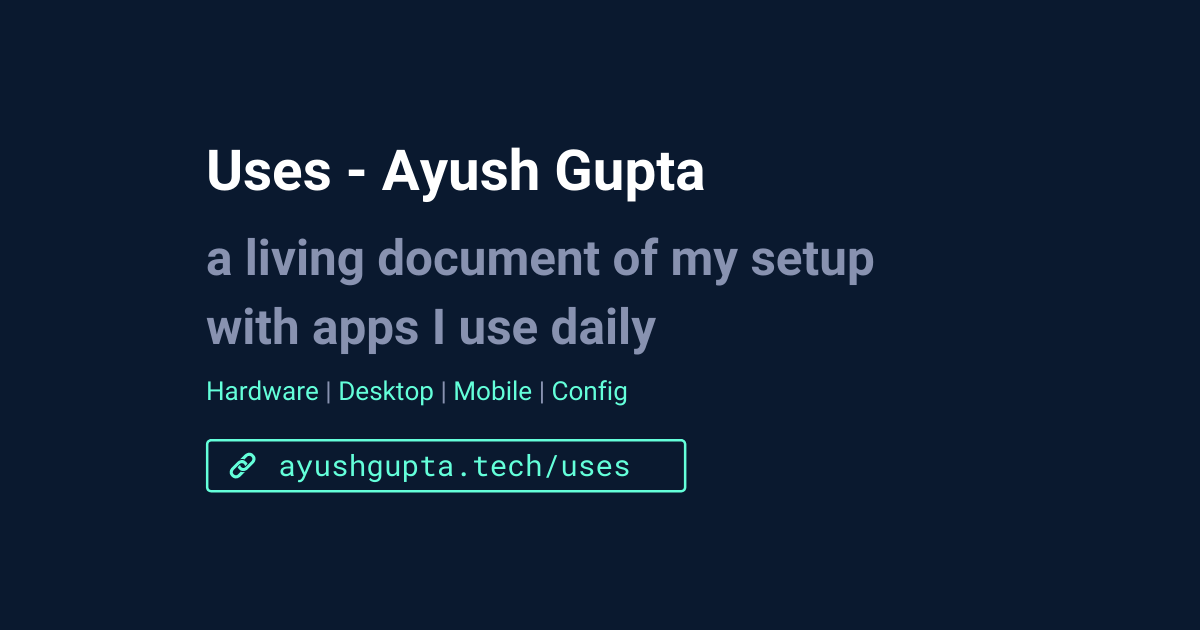
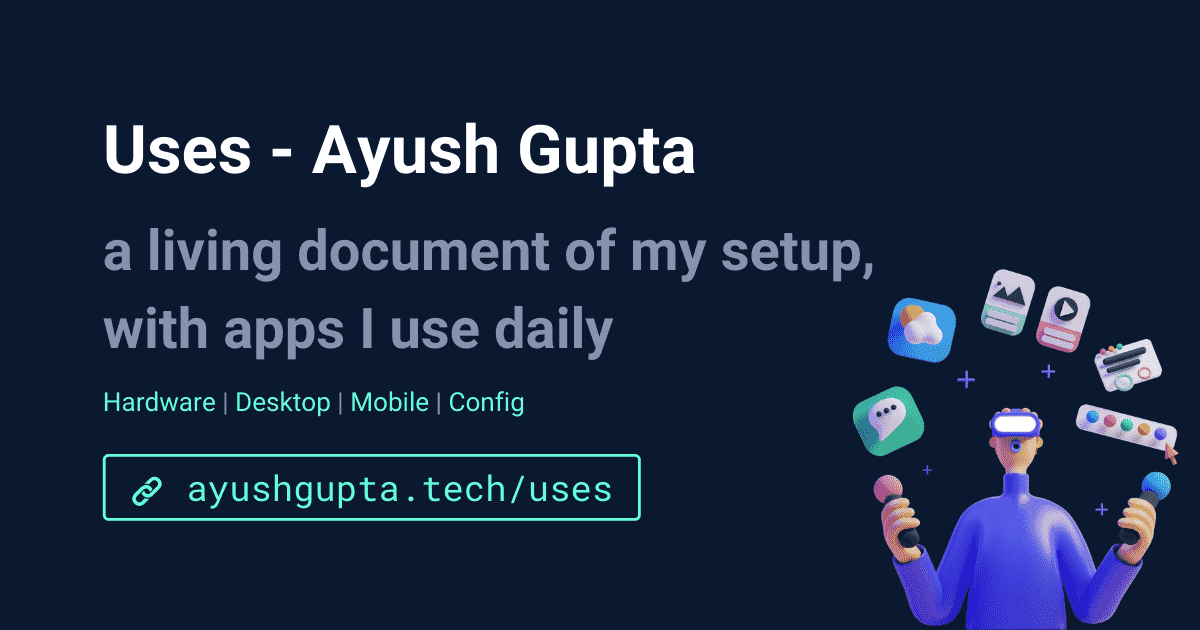
:bento: :mag: Update og images

diff --git a/src/pages/uses.js b/src/pages/uses.js
@@ -17,7 +17,7 @@ const { colors, fontSizes } = theme;
 
 const metaConfig = {
   title: 'Uses - Ayush Gupta',
-  description: 'A living document of setup with apps Ayush Gupta uses daily.',
+  description: `A living document of Ayush Gupta's setup, with apps he uses daily.`,
   url: 'https://ayushgupta.tech/uses',
 };
 
@@ -125,7 +125,7 @@ const UsesPage = ({ data, location }) => {
         <meta name="description" content={metaConfig.description} />
         <meta property="og:title" content={metaConfig.title} />
         <meta property="og:description" content={metaConfig.description} />
-        <meta property="og:image" content={`${siteUrl}${ogImage}`} />
+        <meta property="og:image" content={`${siteUrl}${ogImage}?v=2`} />
         <meta property="og:type" content="website" />
         <meta property="og:url" content={metaConfig.url} />
         <meta property="og:site_name" content={metaConfig.title} />
@@ -143,7 +143,7 @@ const UsesPage = ({ data, location }) => {
       <StyledMainContainer id="content">
         <header ref={revealTitle}>
           <h1 className="big-heading">Uses</h1>
-          <p className="subtitle">a living document of my setup with apps I use daily</p>
+          <p className="subtitle">a living document of my setup, with apps I use daily</p>
         </header>
 
         <section ref={revealUsesContent}>

diff --git a/src/pages/music.js b/src/pages/music.js
@@ -15,7 +15,7 @@ import {
 import { theme, mixins, media } from '@styles';
 import { siteUrl, srConfig, hasuraURL } from '@config';
 import sr from '@utils/sr';
-import ogImage from '@images/og-uses.png';
+import ogImage from '@images/og-music.png';
 import { IconCheck } from '@components/icons';
 import toast from 'react-hot-toast';
 import { useComments } from 'use-comments';
@@ -26,7 +26,7 @@ const { colors } = theme;
 
 const metaConfig = {
   title: 'Music - Ayush Gupta',
-  description: 'A living document of setup with apps Ayush Gupta uses daily.',
+  description: `Deep dive into my Ayush Gupta's music library. Explore anything from my current playing song or my top tracks this month.`,
   url: 'https://ayushgupta.tech/music',
 };
 

diff --git a/src/components/head.js b/src/components/head.js
@@ -50,7 +50,7 @@ const Head = ({ metadata }) => (
     <meta name="twitter:creator" content={config.twitterHandle} />
     <meta name="twitter:title" content={metadata.title} />
     <meta name="twitter:description" content={metadata.description} />
-    <meta name="twitter:image" content={`${config.siteUrl}${ogImage}`} />
+    <meta name="twitter:image" content={`${config.siteUrl}${ogImage}?v=2`} />
     <meta name="twitter:image:alt" content={metadata.title} />
 
     <link rel="apple-touch-icon" sizes="57x57" href={appleIcon57x57} />
